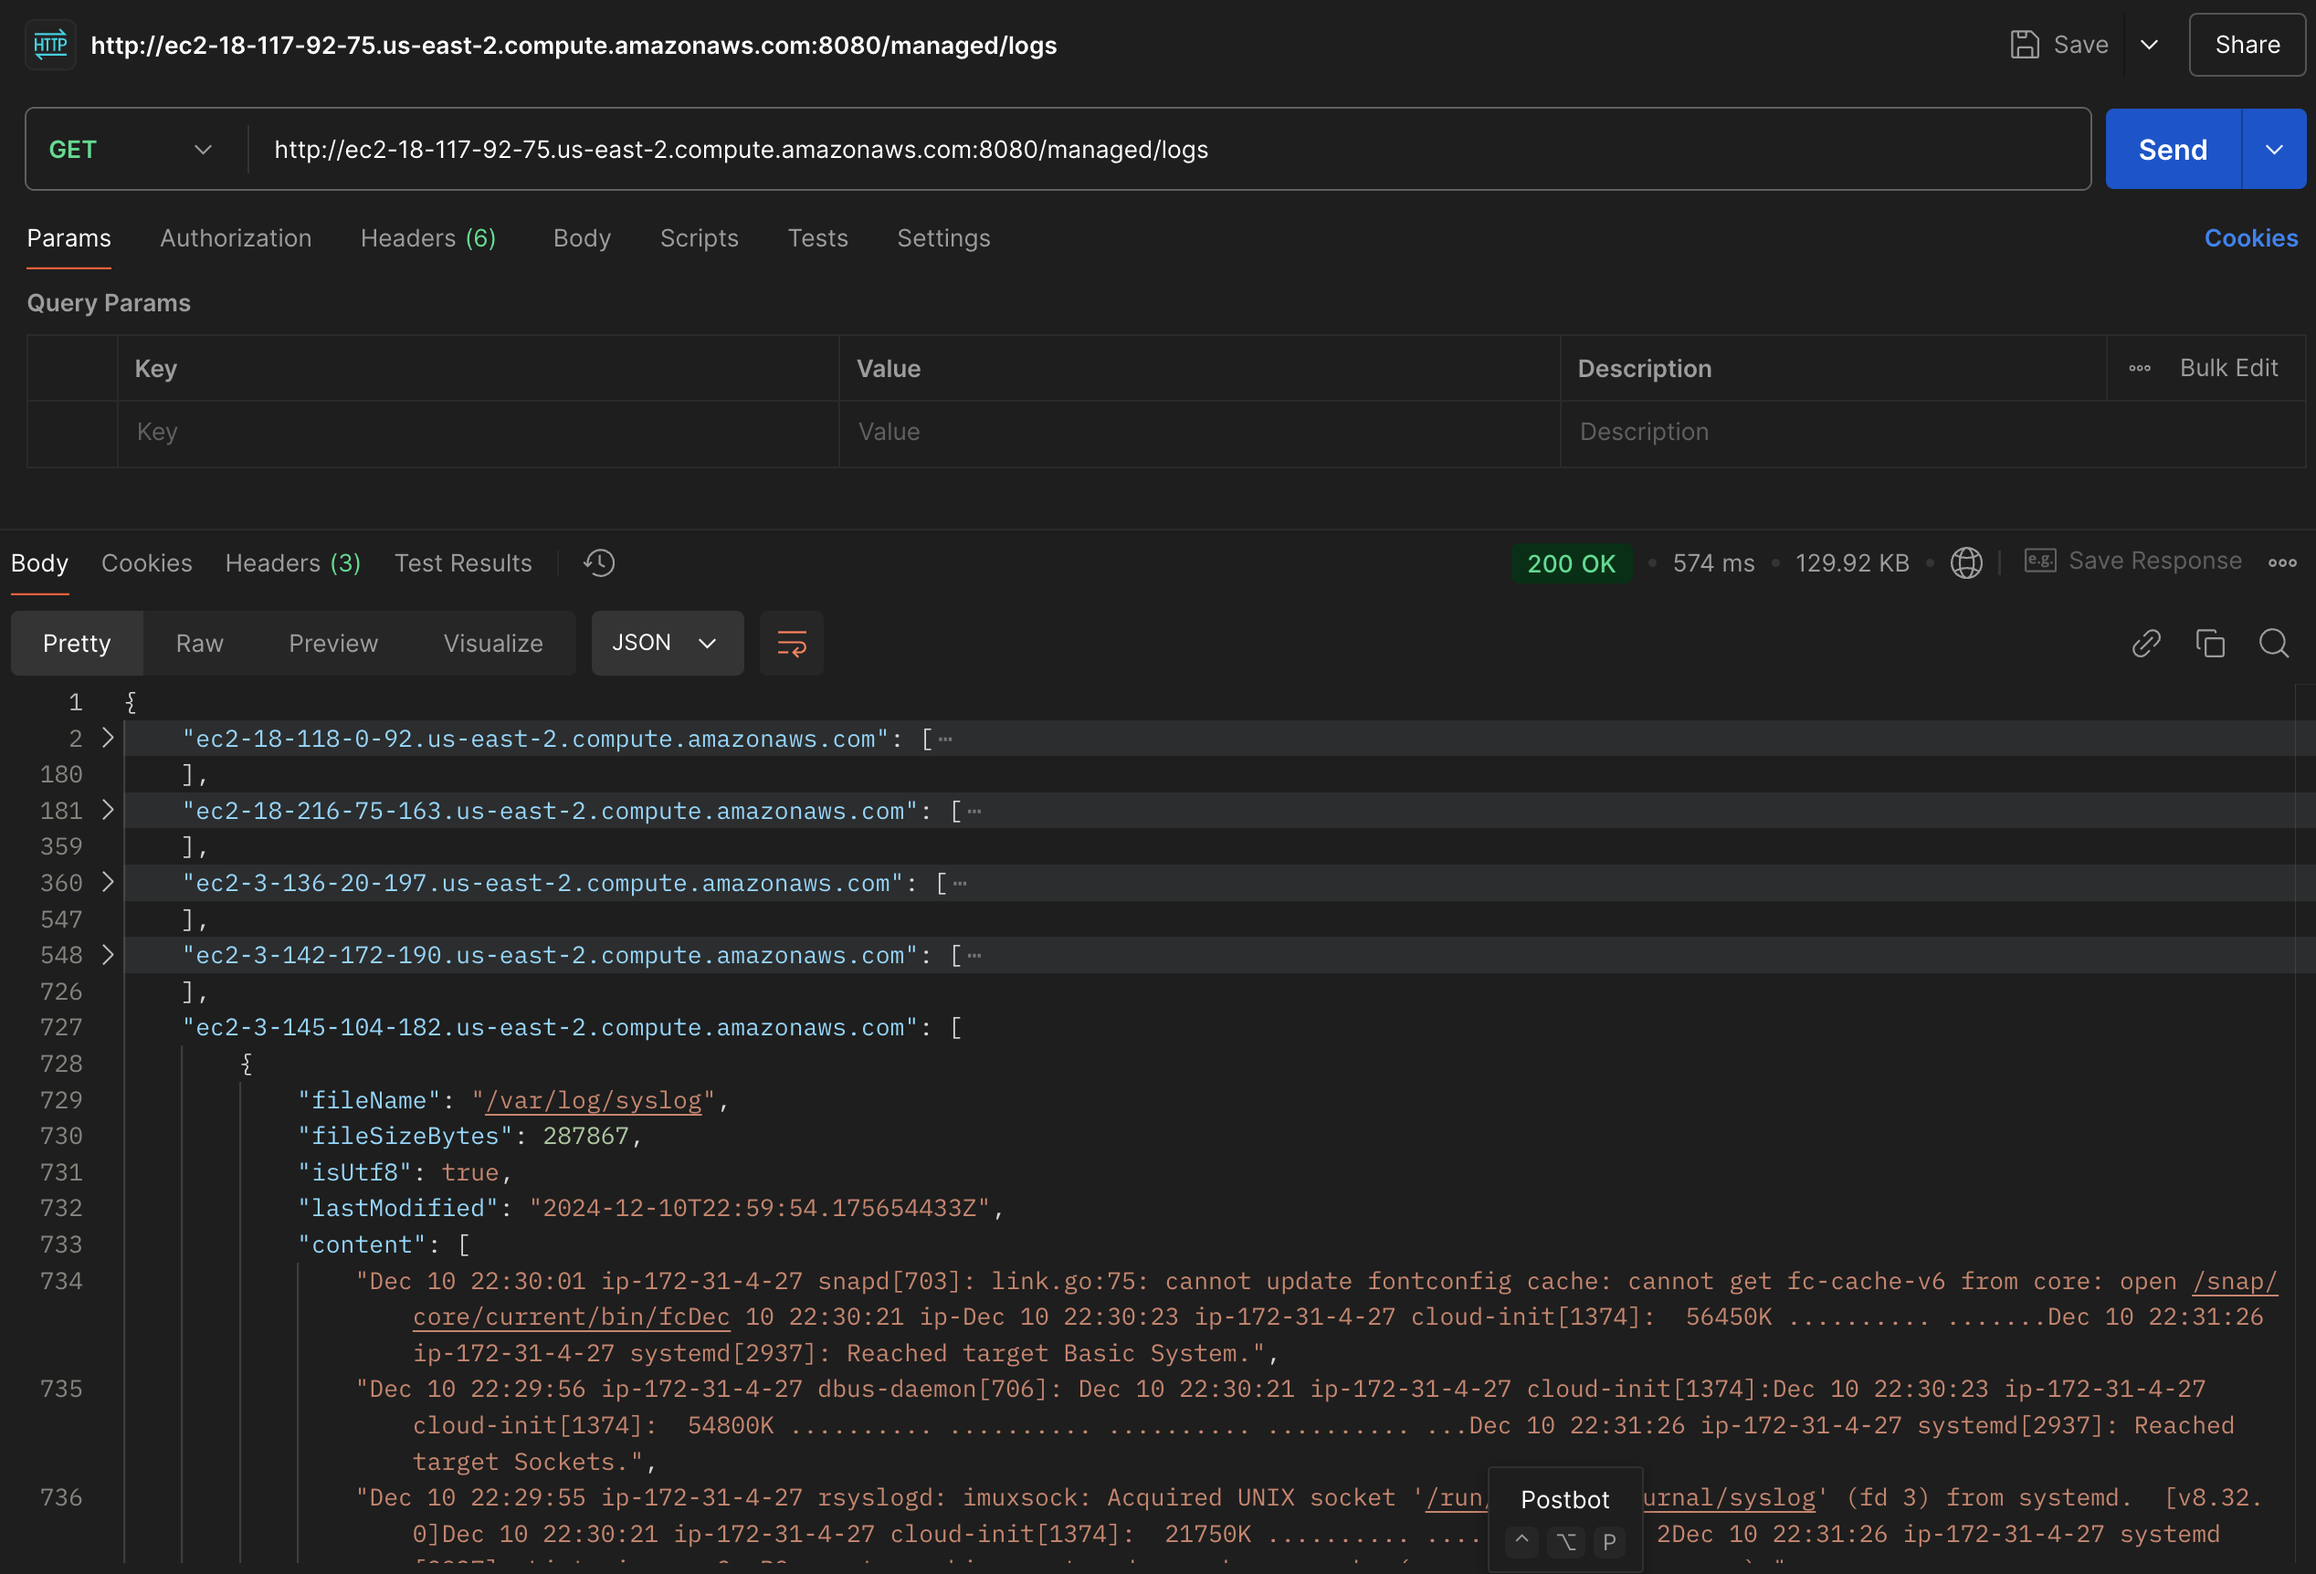
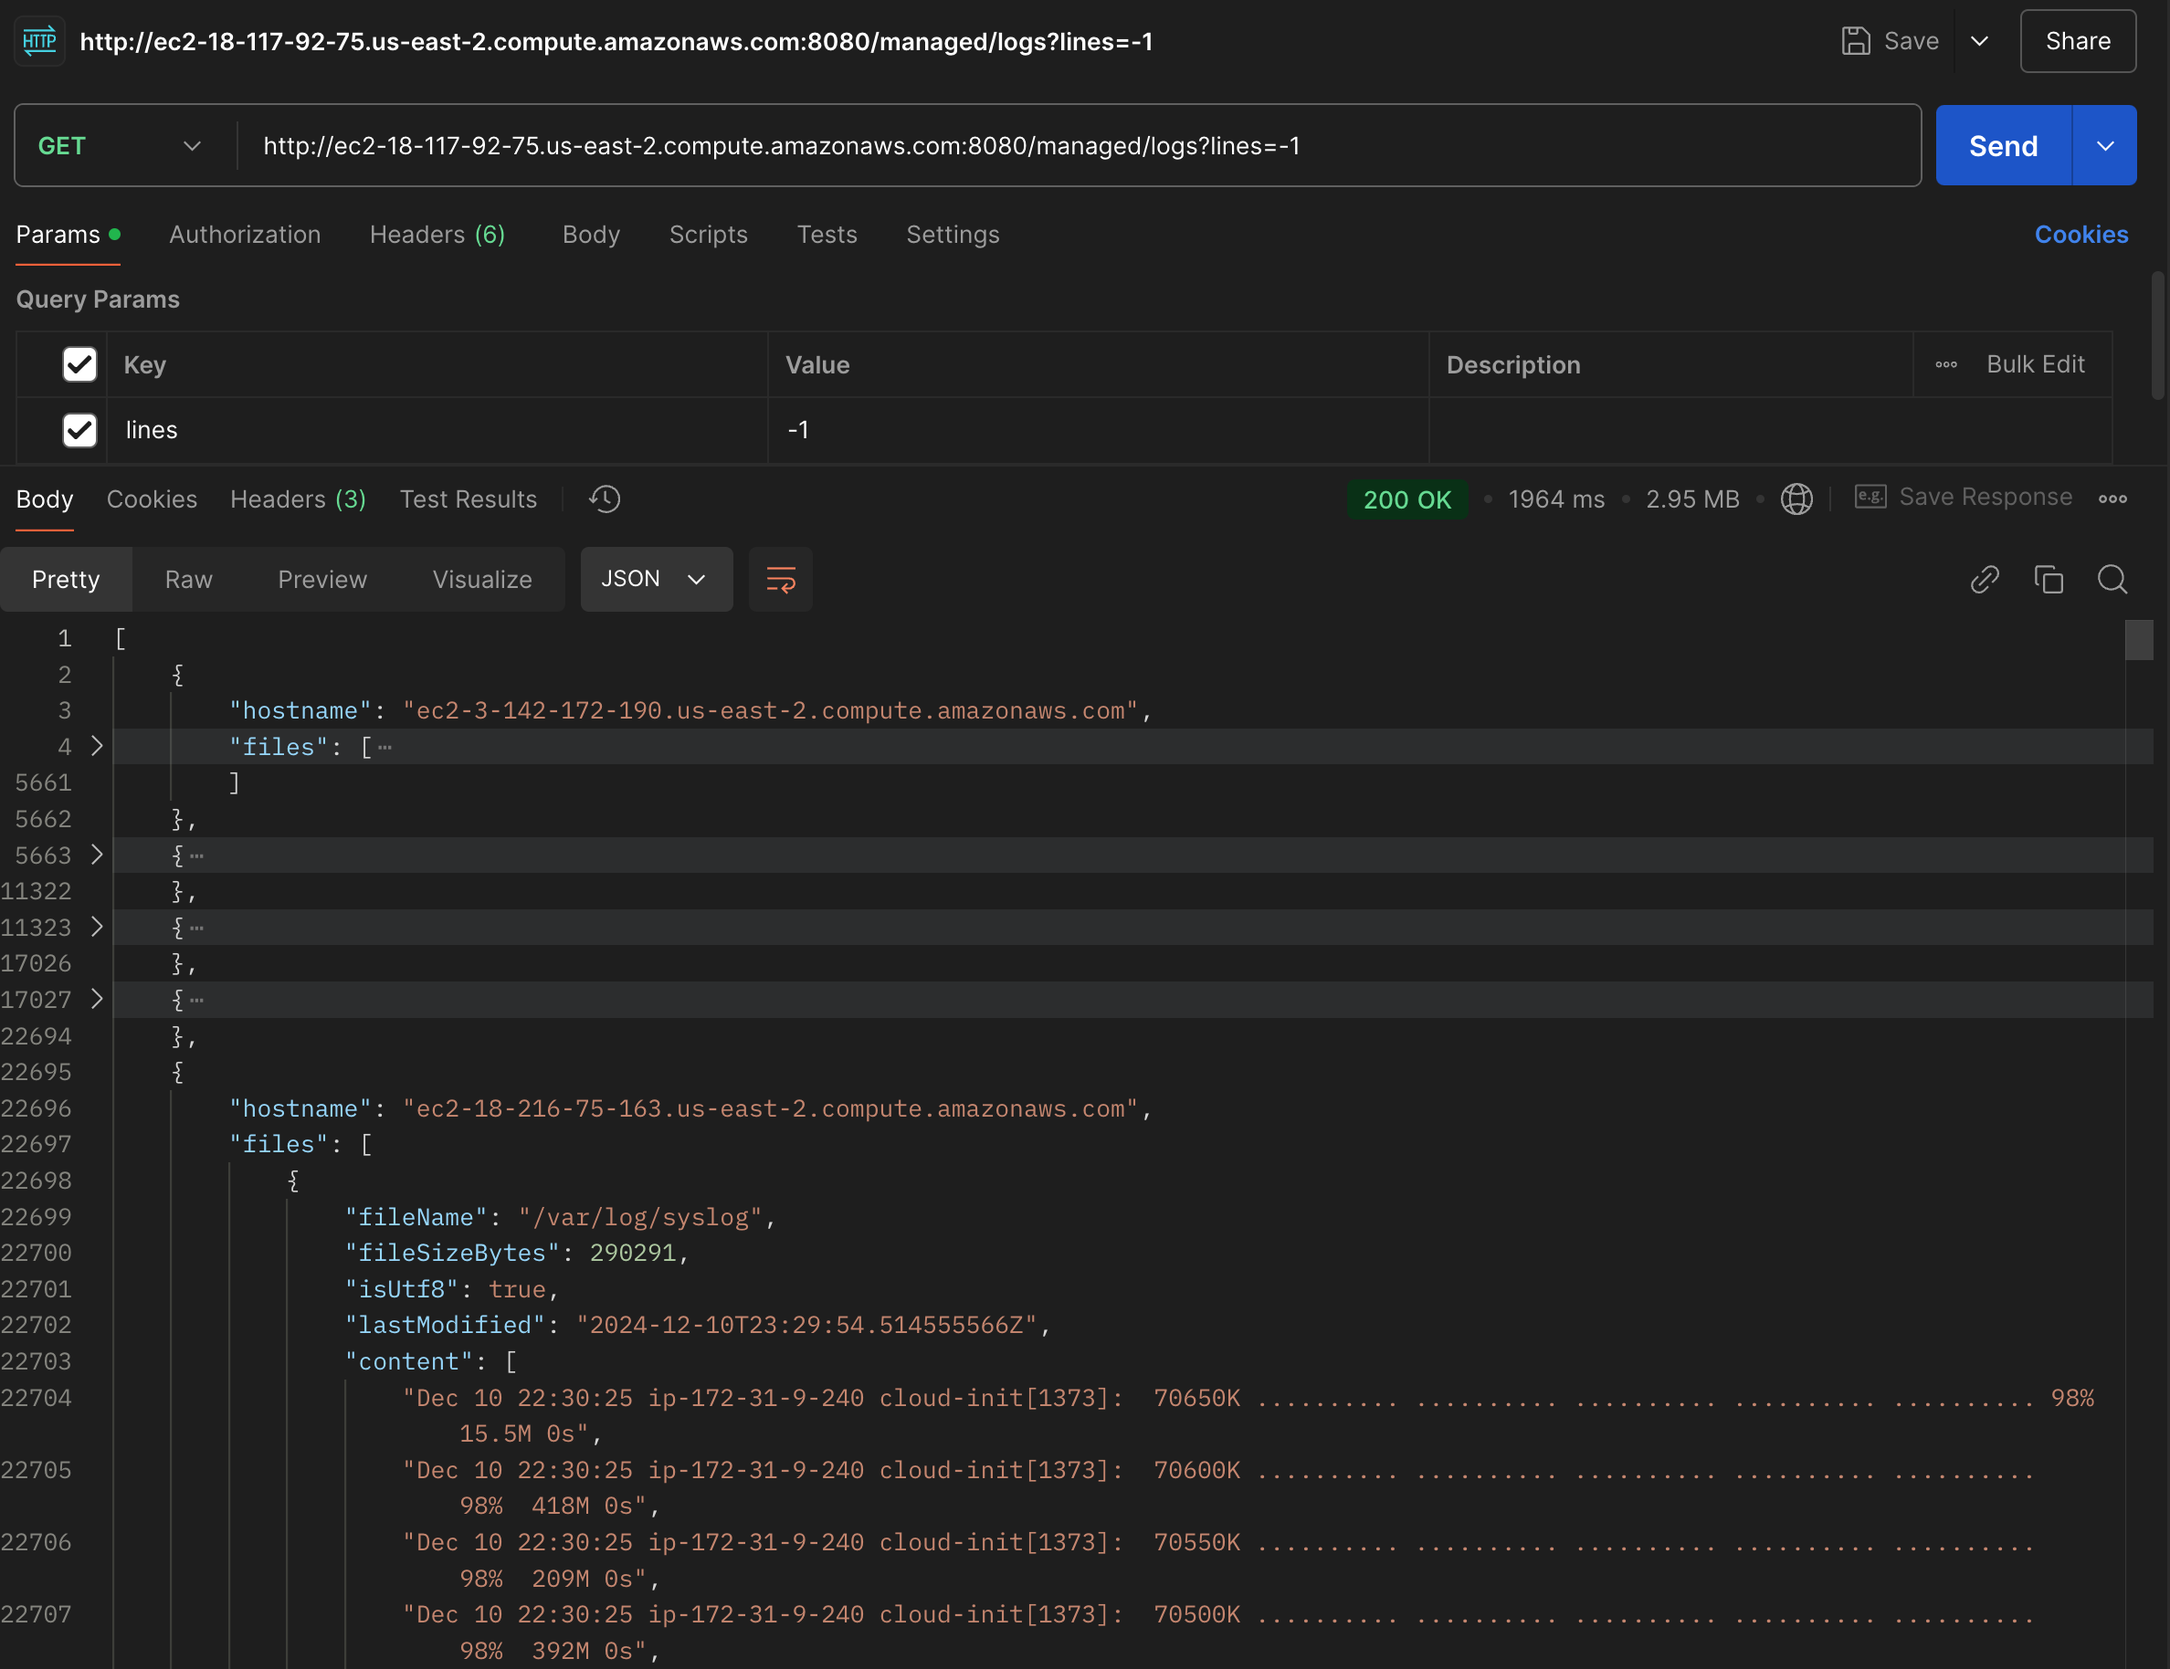
[chore] readme update

diff --git a/README.md b/README.md
@@ -87,7 +87,7 @@ servers := []string{
     "ec2-3-145-104-182.us-east-2.compute.amazonaws.com",
 }
 ```
-Results are in a similar structure to the `/logs` endpoint, but wrapped in an object keyed by the servers' hostname
+Results are in a similar structure to the `/logs` endpoint, but wrapped in an object containing `hostname`
 
 ![managed-screenshot.png](readme/managed-screenshot.png)
 
